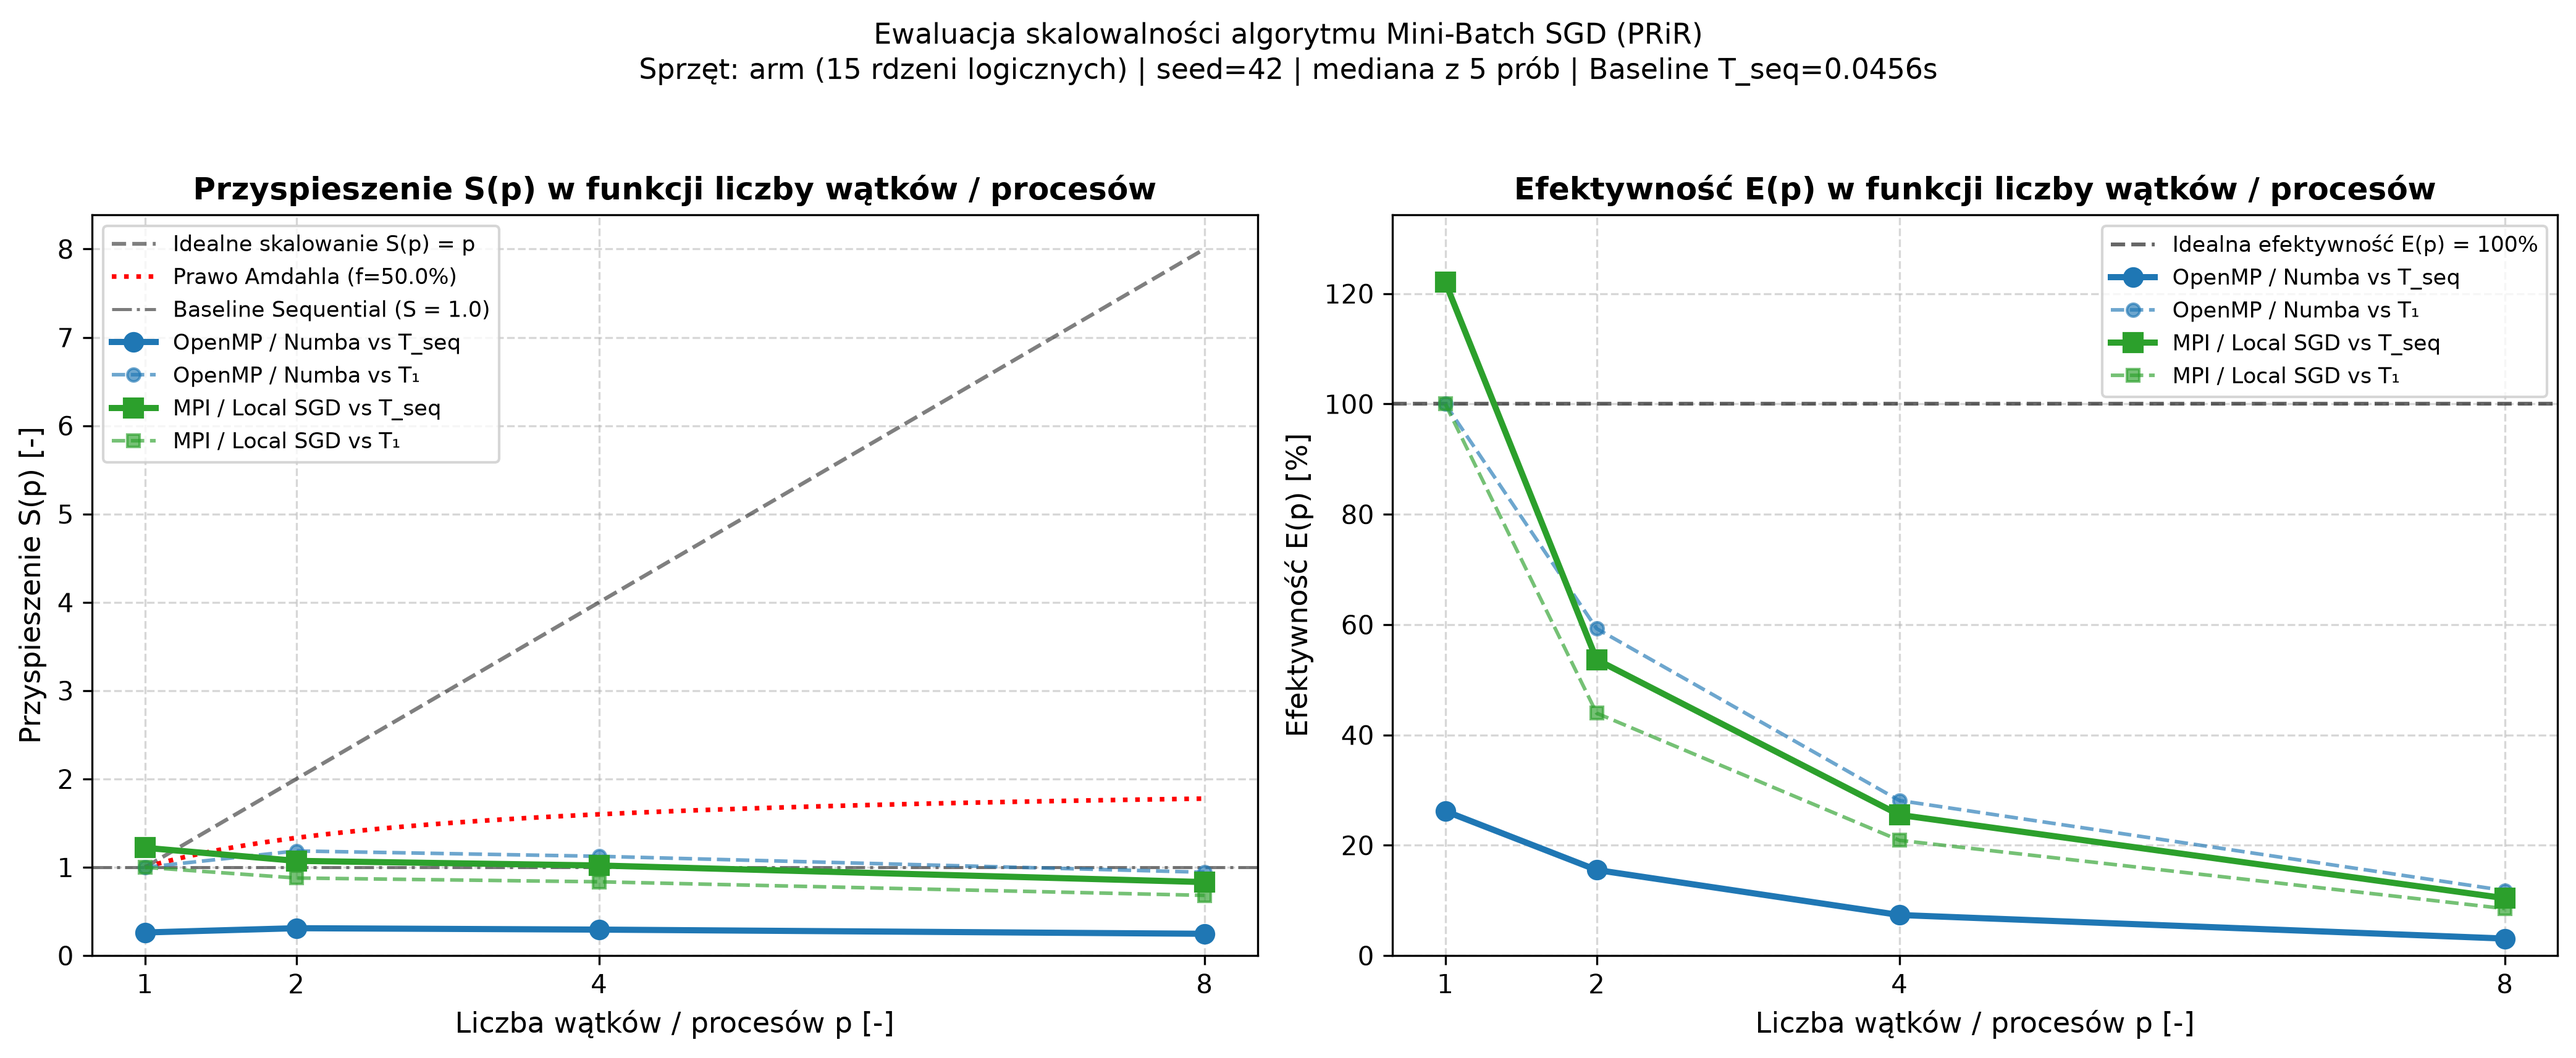
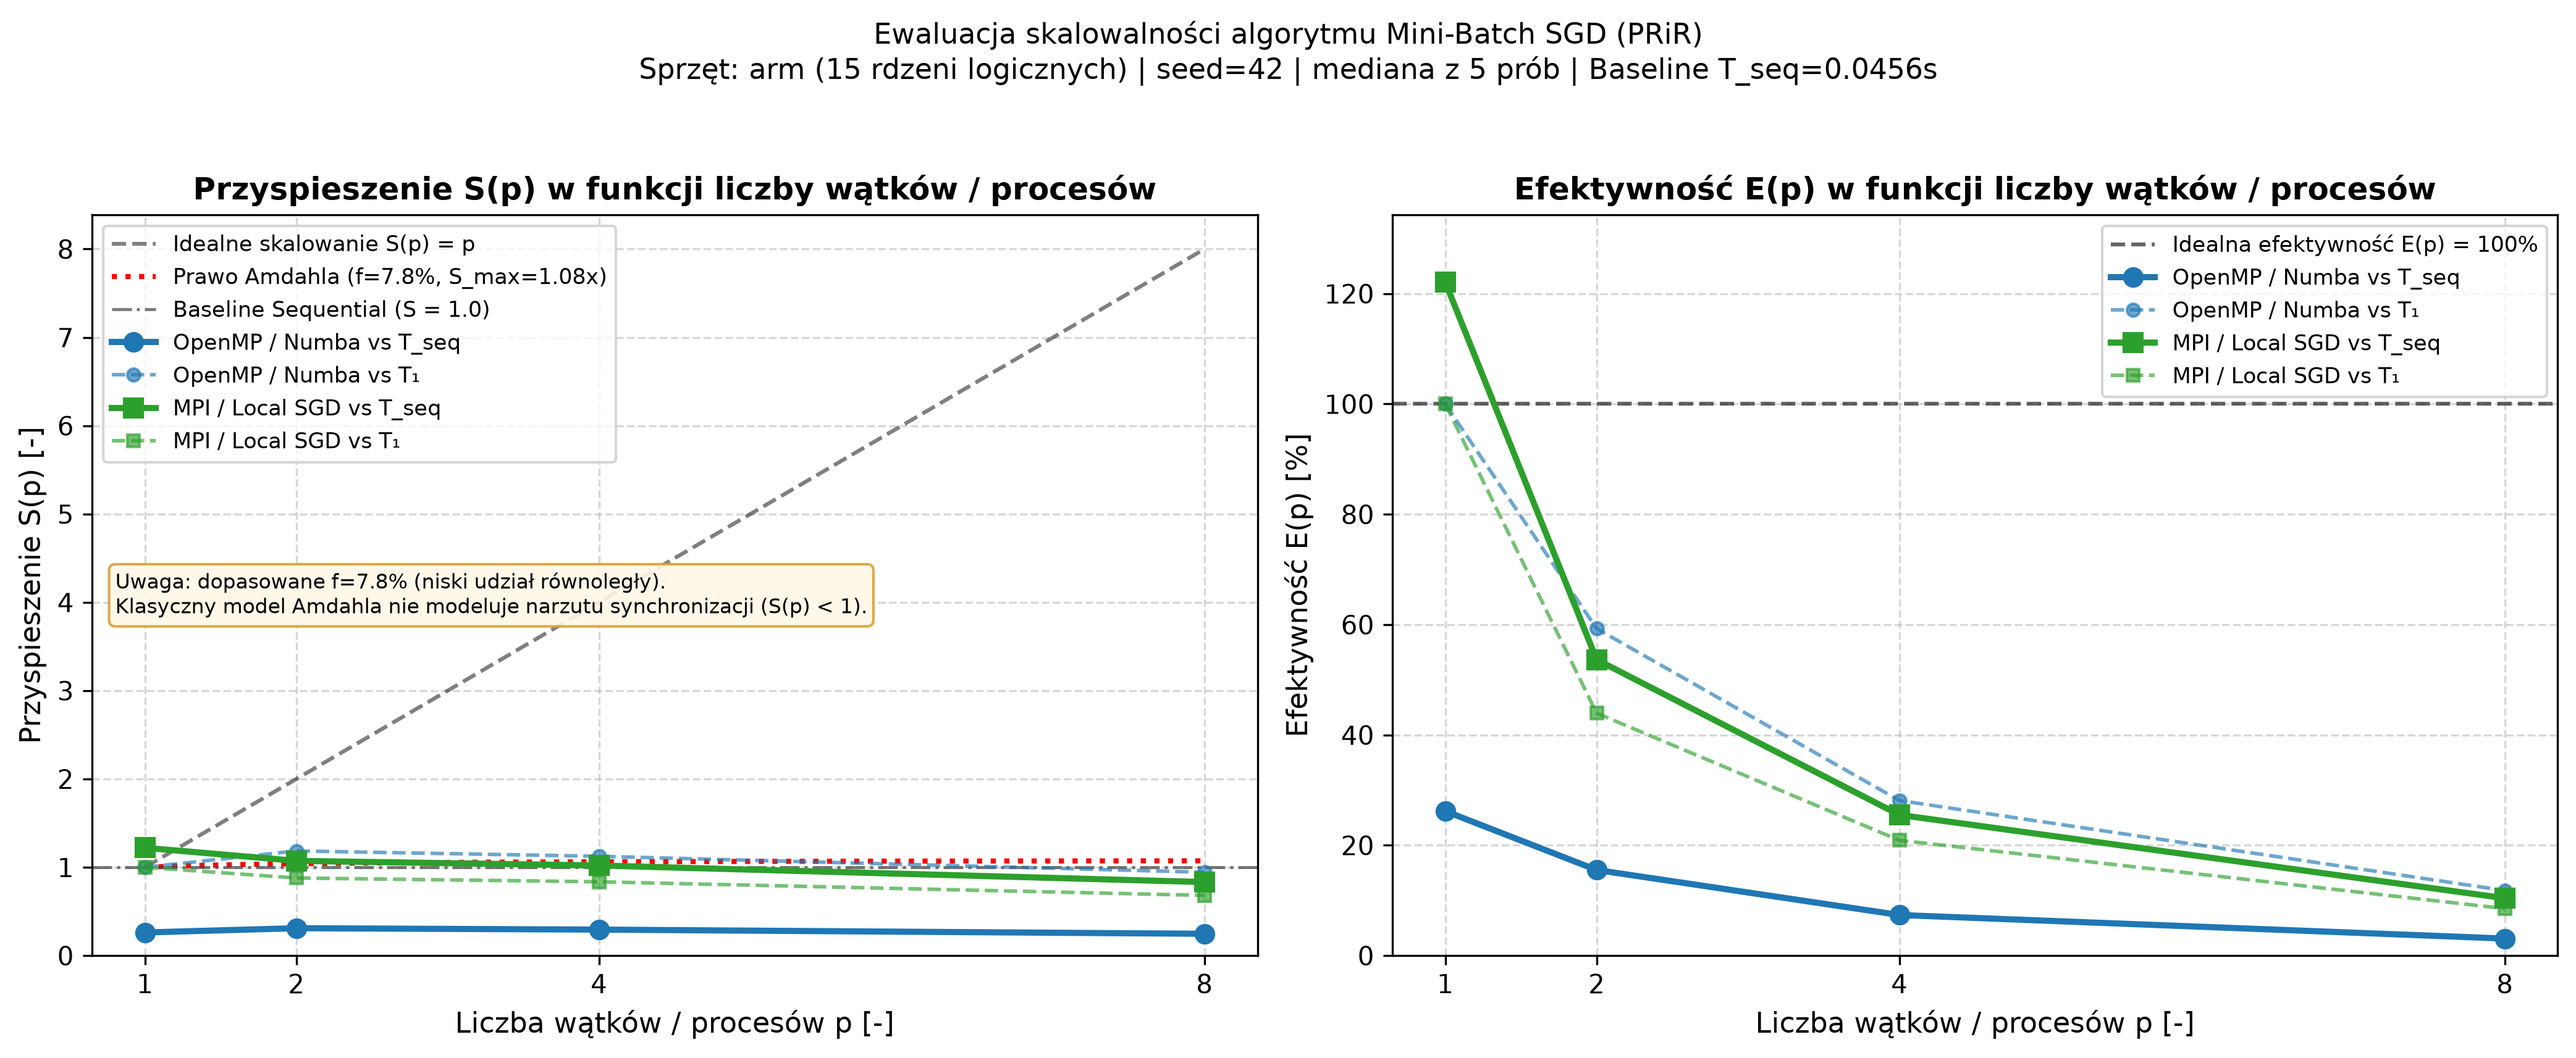
fix(plots): fit Amdahl parallel fraction over full [0.0, 0.99] range and annotate model limits (#31)
Expand fit_parallel_fraction grid from [0.50, 0.99] to [0.0, 0.99], annotate boundary hits and Amdahl synchronization-overhead limitation on speedup_efficiency.png and in README.md, add unit test in tests/test_benchmarks.py, and regenerate figures/speedup_efficiency.png.

Changed region(s): [[0.0312, 0.5257, 0.3429, 0.5875], [0.1559, 0.2474, 0.2494, 0.2783]]

diff --git a/scripts/plot_results.py b/scripts/plot_results.py
@@ -24,16 +24,21 @@ def compute_amdahl_speedup(p_values: np.ndarray, parallel_fraction_f: float) -> 
     return 1.0 / ((1.0 - f) + (f / p_values))
 
 
+AMDAHL_F_MIN = 0.0
+AMDAHL_F_MAX = 0.99
+
+
 def fit_parallel_fraction(p_values: list[int], speedups: list[float]) -> float:
     """
-    Szacuje ulamek rownolegly 'f' z danych empirycznych (metoda najmniejszych kwadratow).
+    Szacuje ulamek rownolegly 'f' z danych empirycznych (metoda najmniejszych kwadratow)
+    w pelnym zakresie [0.0, 0.99], bez sztucznego ucinania na 0.50.
     """
     p_arr = np.array(p_values, dtype=float)
     s_arr = np.array(speedups, dtype=float)
 
-    # Szukamy f minimalizujacego blad kwadratowy pomiedzy S_empirical a S_Amdahl
-    f_candidates = np.linspace(0.50, 0.99, 500)
-    best_f = 0.85
+    # Pelna siatka [0.0, 0.99] pozwala uczciwie wykryc niski ulamek rownolegly lub dominacje narzutu
+    f_candidates = np.linspace(AMDAHL_F_MIN, AMDAHL_F_MAX, 1000)
+    best_f = 0.0
     min_sse = float("inf")
 
     for f in f_candidates:
@@ -84,6 +89,8 @@ def plot_speedup_and_efficiency(
 
     # Teoretyczne Prawo Amdahla dla Numba/OpenMP (skalowanie wzgledem T_1)
     f_fit = fit_parallel_fraction(omp_threads, omp_speedup)
+    at_boundary = (f_fit <= AMDAHL_F_MIN + 1e-3) or (f_fit >= AMDAHL_F_MAX - 1e-3)
+    has_sub_unity = any(s < 1.0 for s in omp_speedup[1:])
     p_dense = np.linspace(1, max(max(omp_threads), max(mpi_procs)), 100)
     amdahl_dense = compute_amdahl_speedup(p_dense, f_fit)
 
@@ -93,7 +100,23 @@ def plot_speedup_and_efficiency(
     # --- Panel 1: Przyspieszenie S(p) ---
     max_p = max(max(omp_threads), max(mpi_procs))
     ax_s.plot([1, max_p], [1, max_p], "k--", alpha=0.5, label="Idealne skalowanie S(p) = p")
-    ax_s.plot(p_dense, amdahl_dense, "r:", linewidth=1.8, label=f"Prawo Amdahla (f={f_fit*100:.1f}%)")
+    amdahl_label = (
+        f"Prawo Amdahla (f={f_fit*100:.1f}%, granica siatki)"
+        if at_boundary
+        else f"Prawo Amdahla (f={f_fit*100:.1f}%, S_max={1.0 / (1.0 - f_fit):.2f}x)"
+    )
+    ax_s.plot(p_dense, amdahl_dense, "r:", linewidth=2.0, label=amdahl_label)
+    if at_boundary or has_sub_unity:
+        note_text = (
+            f"Uwaga: dopasowane f={f_fit*100:.1f}% "
+            f"({'granica siatki [0%, 99%]' if at_boundary else 'niski udział równoległy'}).\n"
+            "Klasyczny model Amdahla nie modeluje narzutu synchronizacji (S(p) < 1)."
+        )
+        ax_s.text(
+            0.02, 0.52, note_text,
+            transform=ax_s.transAxes, fontsize=8, va="top",
+            bbox={"boxstyle": "round", "facecolor": "#fff8e7", "edgecolor": "#d9a036", "alpha": 0.9},
+        )
     if has_omp_seq or has_mpi_seq:
         ax_s.axhline(1.0, color="#444444", linestyle="-.", alpha=0.7, linewidth=1.2, label="Baseline Sequential (S = 1.0)")
     if has_omp_seq:

diff --git a/tests/test_benchmarks.py b/tests/test_benchmarks.py
@@ -86,6 +86,28 @@ def test_amdahl_law_curve_properties():
     assert np.isclose(s_large[0], 10.0, atol=0.001)
 
 
+def test_fit_parallel_fraction_full_range_and_boundaries():
+    """
+    Sprawdza, ze fit_parallel_fraction przeszukuje pelny zakres [0.0, 0.99]
+    (nie obcina sztucznie na 0.50) i poprawnie rozpoznaje niski ulamek f oraz granice 0.0.
+    """
+    p_vals = [1, 2, 4, 8]
+
+    # Niski ulamek rownolegly f=0.20 (wczesniej blednie obcinany do 0.50)
+    s_low = compute_amdahl_speedup(np.array(p_vals, dtype=float), 0.20).tolist()
+    f_low = fit_parallel_fraction(p_vals, s_low)
+    assert np.isclose(f_low, 0.20, atol=0.01)
+
+    # Wysoki ulamek rownolegly f=0.90
+    s_high = compute_amdahl_speedup(np.array(p_vals, dtype=float), 0.90).tolist()
+    f_high = fit_parallel_fraction(p_vals, s_high)
+    assert np.isclose(f_high, 0.90, atol=0.01)
+
+    # Brak przyspieszenia / ujemne skalowanie -> dolna granica 0.0
+    f_zero = fit_parallel_fraction(p_vals, [1.0, 0.95, 0.85, 0.70])
+    assert np.isclose(f_zero, 0.0, atol=1e-3)
+
+
 def test_hardware_info_returns_required_fields():
     """
     Sprawdza czy pobieranie informacji sprzetowych zwraca wymagane pola do legendy.

diff --git a/README.md b/README.md
@@ -307,8 +307,9 @@ Wszystkie warianty CPU (`Sequential`, `OpenMP / Numba`, `MPI`) w `scripts/run_be
 > Na 1 wątku kernel Numby wykonuje jawne zagnieżdżone pętle skalarne po wierszach i cechach, natomiast `Sequential` i `MPI` (dla $p=1$) korzystają ze zwektoryzowanych operacji macierzowych BLAS/Accelerate w NumPy (`X @ weights`, `X.T @ error`). Dzięki ujednoliceniu zakresu oba czasy są w pełni porównywalne na jednym wykresie (`figures/scaling_comparison.png`).
 
 ### 1. Przyspieszenie i efektywność (CS:GO vs `T_seq` i Prawo Amdahla)
-* Na zbiorze CS:GO (~98 tys. próbek × 104 cechy, `batch=512`) bazowa wersja sekwencyjna NumPy wykonuje 3 epoki w **`T_seq = 0.0346 s`**.
-* Dla tak niewielkiego kosztu obliczeniowego na krok narzut uruchamiania wątków (`prange`) i komunikacji międzyprocesowej (`mpiexec`) przewyższa zysk ze zrównoleglenia: względem `T_seq` OpenMP/Numba osiąga `0.20x–0.24x`, a MPI `0.52x–0.90x`. Pokazuje to wprost ograniczenia Prawa Amdahla dla problemów o niskiej intensywności obliczeniowej.
+* Na zbiorze CS:GO (~98 tys. próbek × 104 cechy, `batch=512`) bazowa wersja sekwencyjna NumPy wykonuje 3 epoki w **`T_seq = 0.0346–0.0456 s`**.
+* Dla tak niewielkiego kosztu obliczeniowego na krok narzut uruchamiania wątków (`prange`) i komunikacji międzyprocesowej (`mpiexec`) przewyższa zysk ze zrównoleglenia: względem `T_seq` OpenMP/Numba osiąga `0.20x–0.31x`, a MPI `0.52x–0.90x`.
+* **Ograniczenie Prawa Amdahla:** dopasowanie krzywej $S(p) = \frac{1}{(1 - f) + f/p}$ w pełnym zakresie $f \in [0\%, 99\%]$ daje bardzo niski efektywny ułamek równoległy (rzędu kilku–kilkunastu procent dla Numby względem $T_1$, lub dolną granicę `0%` przy ujemnym skalowaniu). Klasyczny model Amdahla zakłada zerowy koszt synchronizacji ($S(p) \ge 1$), więc nie modeluje spadku wydajności poniżej `1.0x` wynikającego z narzutu barier wątkowych i komunikacji dla małych partii.
 
 ### 2. Kompromis w Local SGD (Parametr K i rozmiar partii)
 * Na CS:GO regresja logistyczna osiąga sufit ~75% Accuracy, dlatego w eksperymencie czułości zbadano czas do osiągnięcia **74% Accuracy** (`lr=0.003`).
